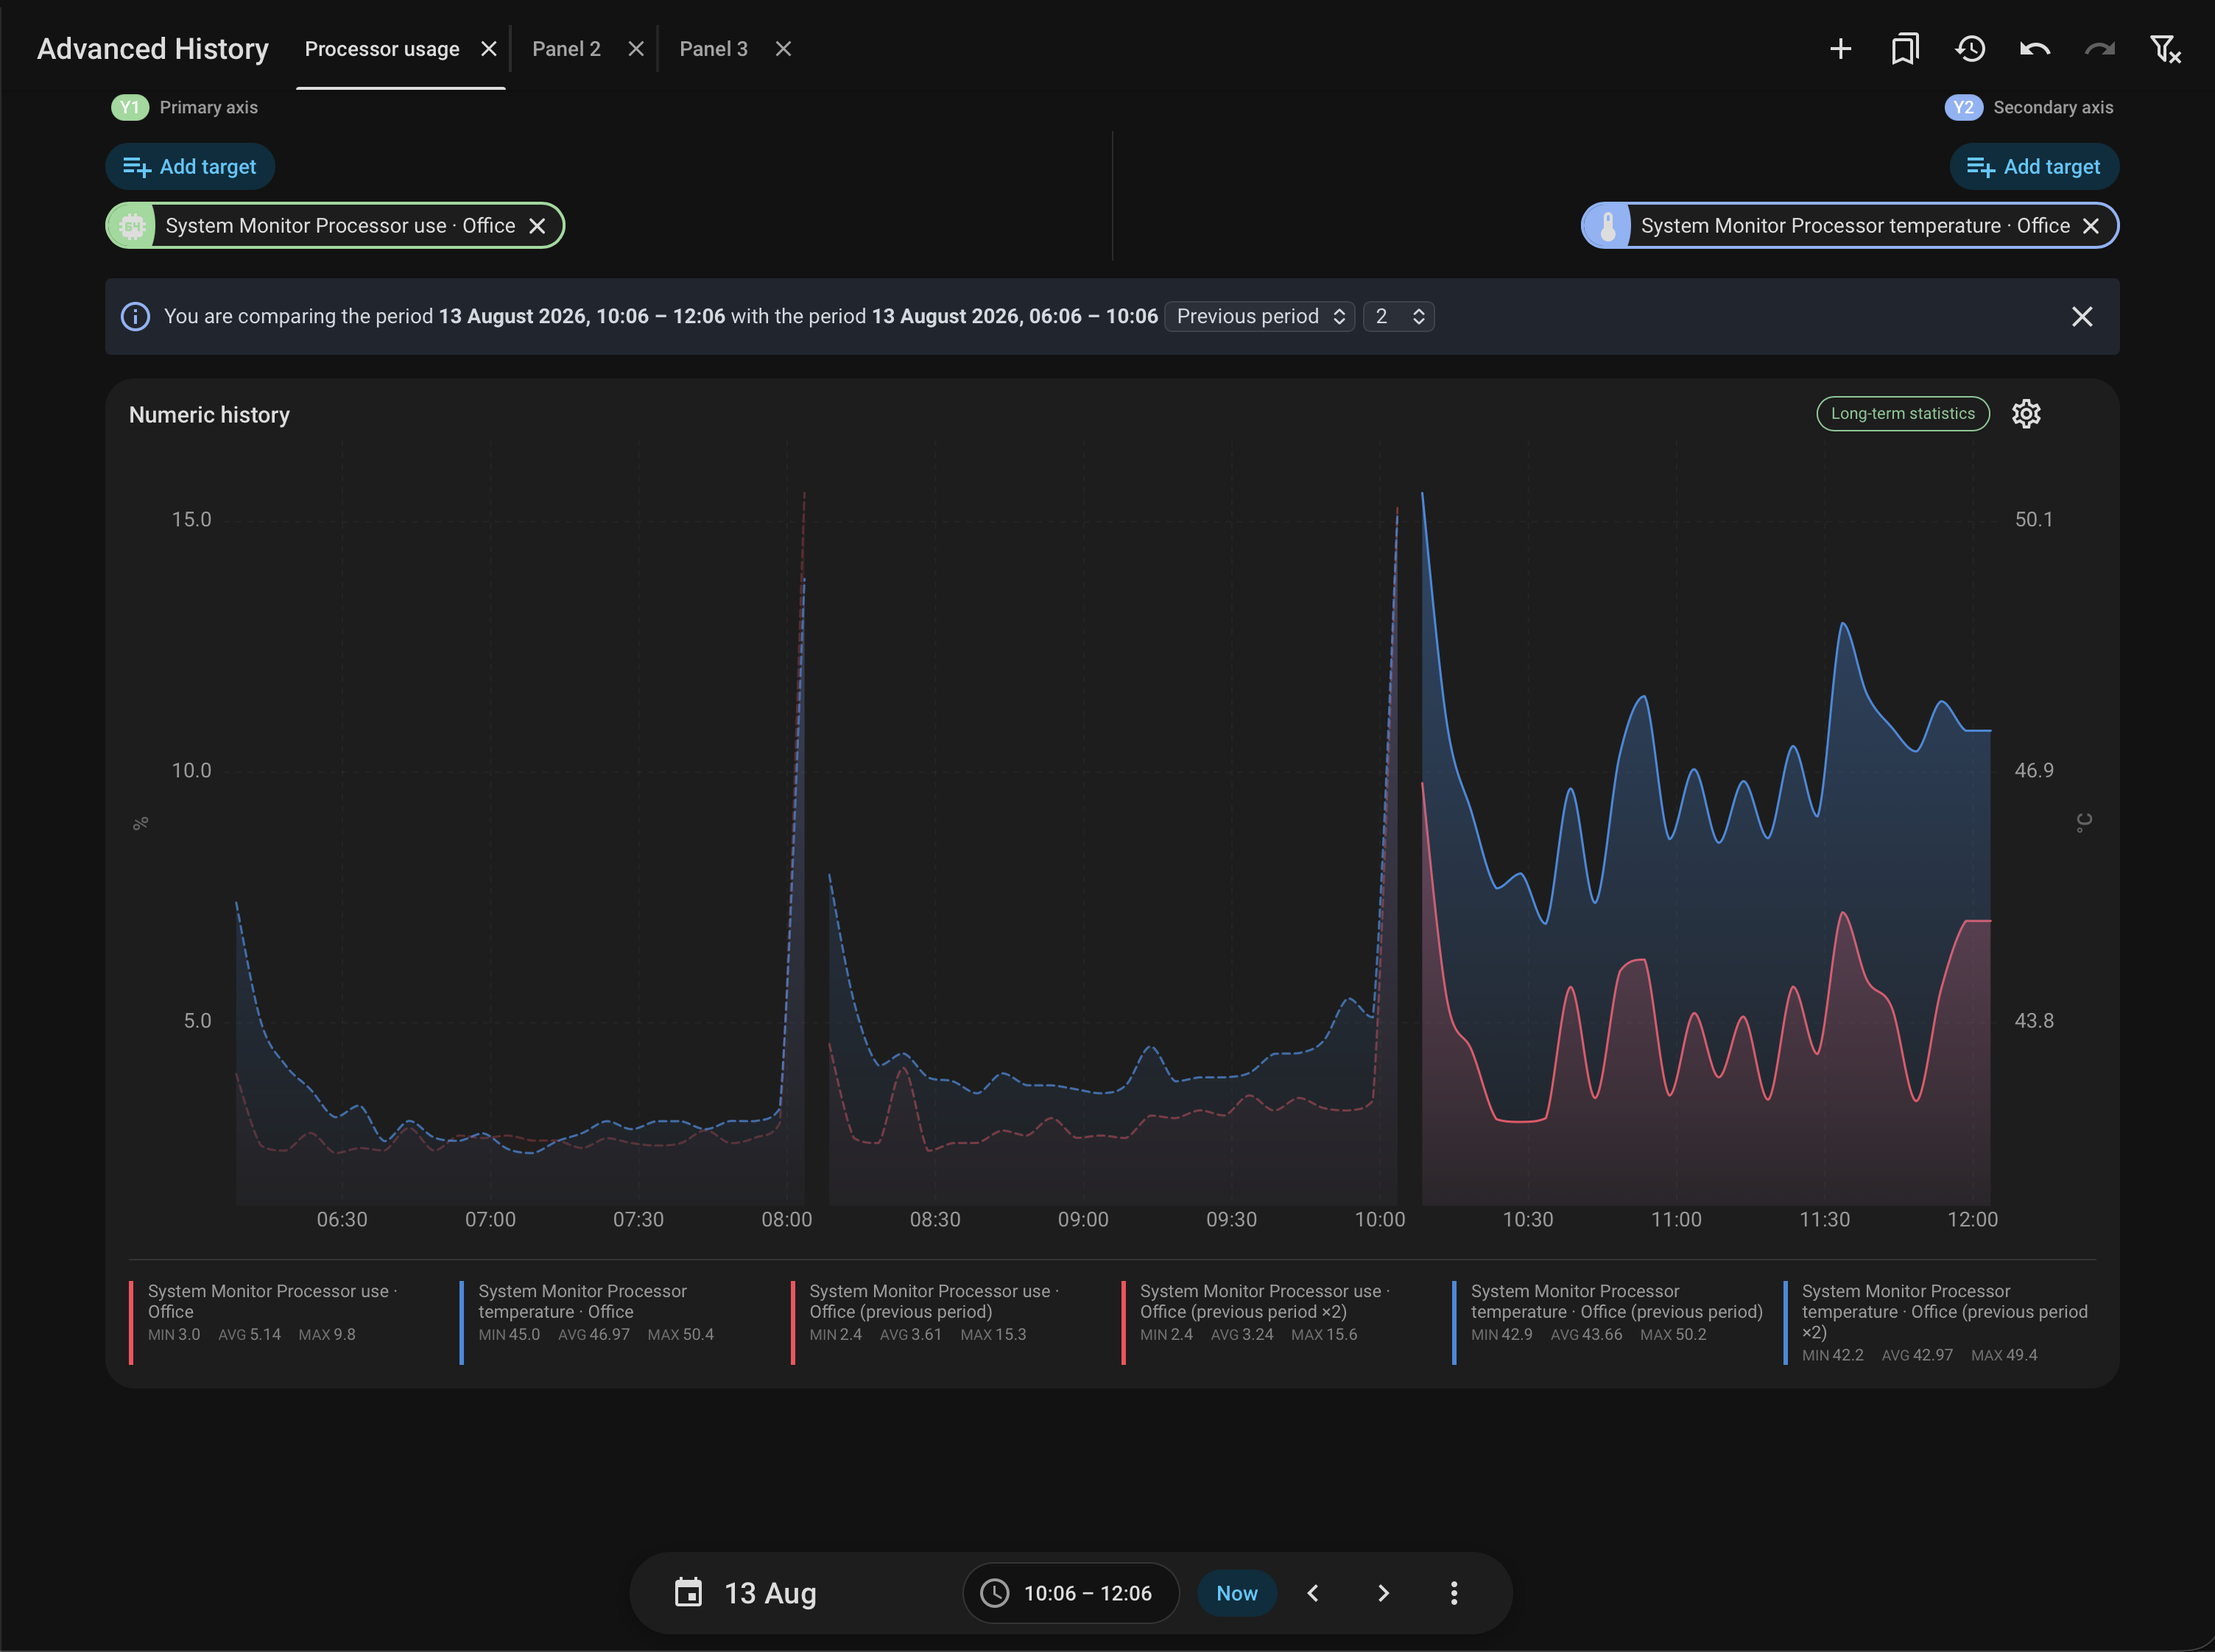
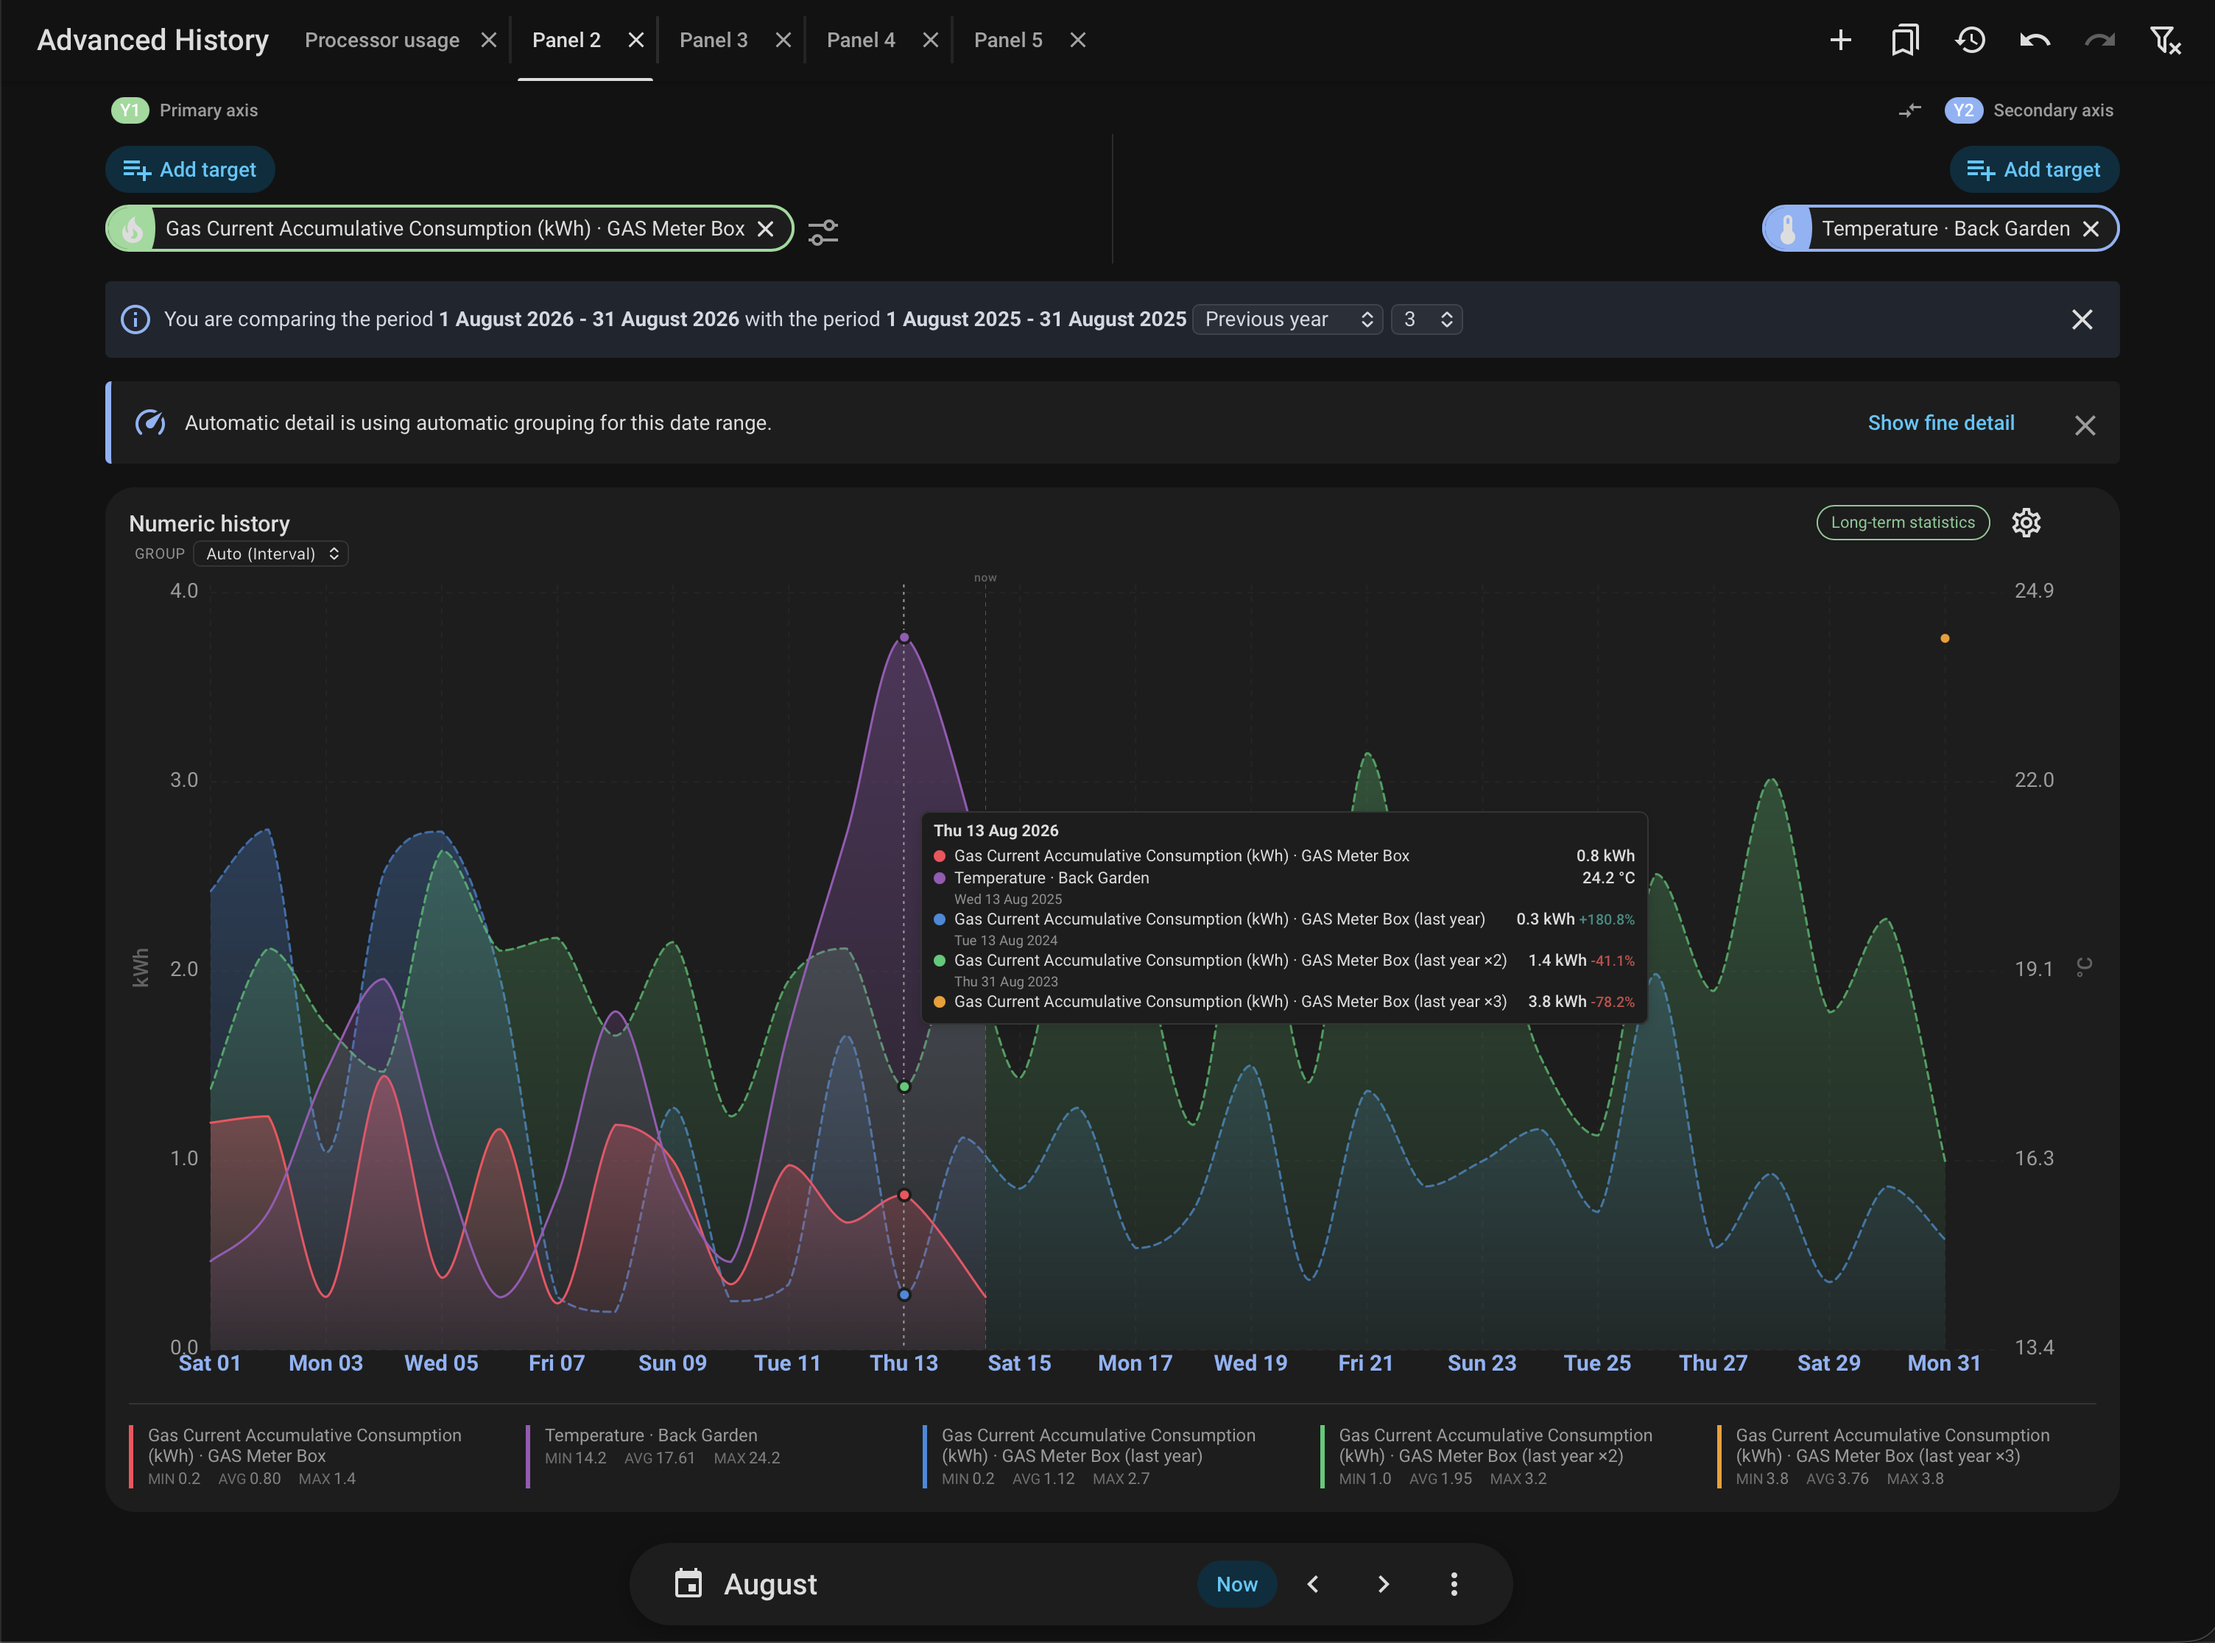
Improve comparison period summaries

diff --git a/custom_components/advanced_history/frontend/energy.js b/custom_components/advanced_history/frontend/energy.js
@@ -10,37 +10,93 @@ export class EnergyMethods {
   }
 
   _energyCompareRange(start, end, choice, count = 1) {
-    if (!(start instanceof Date) || !(end instanceof Date)) return null;
+    const ranges = this._energyCompareRanges(start, end, choice, count);
+    if (!ranges.length) return null;
     if (choice === "previous_period") {
       const duration = end.getTime() - start.getTime();
-      if (duration <= 0) return null;
       const periods = Math.max(1, Math.min(10, Math.trunc(Number(count)) || 1));
       return {
         start: new Date(start.getTime() - duration * periods),
         end: new Date(start),
+        ranges,
       };
     }
-    if (choice === "last_month") {
-      const compareStart = new Date(start);
-      const dayOfMonth = compareStart.getDate();
-      compareStart.setDate(1);
-      compareStart.setMonth(compareStart.getMonth() - 1);
-      const lastTargetDay = new Date(
-        compareStart.getFullYear(),
-        compareStart.getMonth() + 1,
-        0,
-      ).getDate();
-      compareStart.setDate(Math.min(dayOfMonth, lastTargetDay));
-      const offset = start.getTime() - compareStart.getTime();
-      return { start: compareStart, end: new Date(end.getTime() - offset) };
-    }
+    return {
+      start: ranges[0].start,
+      end: ranges[ranges.length - 1].end,
+      ranges,
+    };
+  }
+
+  _energyCompareRanges(start, end, choice, count = 1) {
+    if (!(start instanceof Date) || !(end instanceof Date)) return [];
+    const periods = Math.max(1, Math.min(10, Math.trunc(Number(count)) || 1));
+    const duration = end.getTime() - start.getTime();
+    if (duration <= 0) return [];
+    const periodKind = this._energyPeriodKind(start, end);
     const days = choice === "yesterday" ? 1 : choice === "last_week" ? 7 : 0;
-    if (!days) return null;
-    const compareStart = new Date(start);
-    const compareEnd = new Date(end);
-    compareStart.setDate(compareStart.getDate() - days);
-    compareEnd.setDate(compareEnd.getDate() - days);
-    return { start: compareStart, end: compareEnd };
+    const ranges = [];
+    for (let periodsBack = periods; periodsBack >= 1; periodsBack -= 1) {
+      let compareStart;
+      let compareEnd;
+      if (choice === "previous_period") {
+        if (periodKind === "month") {
+          compareStart = this._shiftEnergyCompareMonth(start, -periodsBack);
+          compareEnd = this._shiftEnergyCompareMonth(end, -periodsBack);
+        } else if (periodKind === "year") {
+          compareStart = this._shiftEnergyCompareYear(start, -periodsBack);
+          compareEnd = this._shiftEnergyCompareYear(end, -periodsBack);
+        } else {
+          compareStart = new Date(start.getTime() - duration * periodsBack);
+          compareEnd = new Date(end.getTime() - duration * periodsBack);
+        }
+      } else if (choice === "last_month") {
+        compareStart = this._shiftEnergyCompareMonth(start, -periodsBack);
+        compareEnd = this._shiftEnergyCompareMonth(end, -periodsBack);
+      } else if (choice === "last_year") {
+        compareStart = this._shiftEnergyCompareYear(start, -periodsBack);
+        compareEnd = this._shiftEnergyCompareYear(end, -periodsBack);
+      } else if (days) {
+        compareStart = new Date(start);
+        compareEnd = new Date(end);
+        compareStart.setDate(compareStart.getDate() - days * periodsBack);
+        compareEnd.setDate(compareEnd.getDate() - days * periodsBack);
+      } else {
+        return [];
+      }
+      ranges.push({ start: compareStart, end: compareEnd });
+    }
+    return ranges;
+  }
+
+  _shiftEnergyCompareMonth(value, offset) {
+    const shifted = new Date(value);
+    const targetDay = shifted.getDate();
+    shifted.setDate(1);
+    shifted.setMonth(shifted.getMonth() + offset);
+    const lastTargetDay = new Date(
+      shifted.getFullYear(),
+      shifted.getMonth() + 1,
+      0,
+    ).getDate();
+    shifted.setDate(Math.min(targetDay, lastTargetDay));
+    return shifted;
+  }
+
+  _shiftEnergyCompareYear(value, offset) {
+    const shifted = new Date(value);
+    const targetMonth = shifted.getMonth();
+    const targetDay = shifted.getDate();
+    shifted.setDate(1);
+    shifted.setFullYear(shifted.getFullYear() + offset);
+    shifted.setMonth(targetMonth);
+    const lastTargetDay = new Date(
+      shifted.getFullYear(),
+      targetMonth + 1,
+      0,
+    ).getDate();
+    shifted.setDate(Math.min(targetDay, lastTargetDay));
+    return shifted;
   }
 
   _energyPeriodKind(start, end) {
@@ -80,8 +136,8 @@ export class EnergyMethods {
     const previousYear = ["last_year", "compare_previous_year"];
     if (periodKind === "day") {
       return this._panelTimeRange
-        ? [previousPeriod, previousDay, previousWeek, previousYear]
-        : [previousPeriod, previousWeek, previousYear];
+        ? [previousPeriod, previousDay, previousWeek, previousMonth, previousYear]
+        : [previousPeriod, previousWeek, previousMonth, previousYear];
     }
     if (periodKind === "week") return [previousPeriod, previousMonth, previousYear];
     if (periodKind === "month") return [previousPeriod, previousYear];
@@ -119,15 +175,35 @@ export class EnergyMethods {
     return collectionMode ? (dataMode || collectionMode) : "";
   }
 
-  _energyCompareRangeLabel(start, end) {
+  _energyCompareRangeLabel(start, end, includeTime = true, periodKind = "other") {
     const language = this._hass?.locale?.language || this._hass?.language;
     const timeZone = this._resolvedTimeZone?.() || this._hass?.config?.time_zone;
+    if (!includeTime && periodKind === "day") {
+      return new Intl.DateTimeFormat(language, {
+        dateStyle: "long",
+        ...(timeZone ? { timeZone } : {}),
+      }).format(start);
+    }
+    if (!includeTime && periodKind === "month") {
+      return new Intl.DateTimeFormat(language, {
+        month: "long",
+        year: "numeric",
+        ...(timeZone ? { timeZone } : {}),
+      }).format(start);
+    }
+    if (!includeTime && periodKind === "year") {
+      return new Intl.DateTimeFormat(language, {
+        year: "numeric",
+        ...(timeZone ? { timeZone } : {}),
+      }).format(start);
+    }
     const dateOptions = { dateStyle: "long", ...(timeZone ? { timeZone } : {}) };
     const timeOptions = { timeStyle: "short", ...(timeZone ? { timeZone } : {}) };
     const dateFormatter = new Intl.DateTimeFormat(language, dateOptions);
     const timeFormatter = new Intl.DateTimeFormat(language, timeOptions);
     const startDate = dateFormatter.format(start);
     const endDate = dateFormatter.format(end);
+    if (!includeTime) return startDate === endDate ? startDate : `${startDate} – ${endDate}`;
     const startTime = timeFormatter.format(start);
     const endTime = timeFormatter.format(end);
     return startDate === endDate
@@ -138,7 +214,11 @@ export class EnergyMethods {
   _renderEnergyCompareRangeBanner(compareCard, wrapper) {
     const range = compareCard?.__advancedHistoryCompareRange;
     const alert = compareCard?.shadowRoot?.querySelector("ha-alert");
-    if (!this._panelTimeRange || !range || !alert || !wrapper) return;
+    const comparisonCount = Math.max(
+      1,
+      Math.min(10, Math.trunc(Number(this._energyCompareCount)) || 1),
+    );
+    if ((!this._panelTimeRange && comparisonCount === 1) || !range || !alert || !wrapper) return;
     const startMarker = "__ADVANCED_HISTORY_START__";
     const endMarker = "__ADVANCED_HISTORY_END__";
     const message = this._localize(
@@ -146,9 +226,40 @@ export class EnergyMethods {
       `You are comparing the period ${startMarker} with the period ${endMarker}`,
       { start: startMarker, end: endMarker },
     );
+    const includeTime = Boolean(this._panelTimeRange);
+    const periodKind = this._energyPeriodKind(range.start, range.end);
+    let compareLabelEnd = range.compareEnd;
+    if (
+      !includeTime
+      && this._energyCompareChoice === "previous_period"
+      && compareLabelEnd?.getTime?.() === range.start?.getTime?.()
+    ) {
+      compareLabelEnd = new Date(compareLabelEnd.getTime() - 1);
+    }
+    const compareRanges = Array.isArray(range.compareRanges) && range.compareRanges.length
+      ? range.compareRanges
+      : [{ start: range.compareStart, end: compareLabelEnd }];
+    const compareRangeLabels = compareRanges.map((comparisonRange) => (
+      this._energyCompareRangeLabel(
+        comparisonRange.start,
+        comparisonRange.end,
+        includeTime,
+        periodKind,
+      )
+    ));
+    const language = this._hass?.locale?.language || this._hass?.language;
+    const compareRangesLabel = compareRangeLabels.length > 1
+      ? new Intl.ListFormat(language, { style: "long", type: "conjunction" })
+        .format(compareRangeLabels)
+      : compareRangeLabels[0];
     const labels = {
-      [startMarker]: this._energyCompareRangeLabel(range.start, range.end),
-      [endMarker]: this._energyCompareRangeLabel(range.compareStart, range.compareEnd),
+      [startMarker]: this._energyCompareRangeLabel(
+        range.start,
+        range.end,
+        includeTime,
+        periodKind,
+      ),
+      [endMarker]: compareRangesLabel,
     };
     const markerPattern = new RegExp(`(${startMarker}|${endMarker})`, "g");
     const content = document.createDocumentFragment();
@@ -203,6 +314,7 @@ export class EnergyMethods {
         end: rangeEnd,
         compareStart: customRange.start,
         compareEnd: customRange.end,
+        compareRanges: customRange.ranges,
       };
       compareCard.requestUpdate?.();
     };

diff --git a/README.md b/README.md
@@ -34,6 +34,8 @@ Advanced History brings those two ideas together: select targets as you would in
 ## Highlights
 
 - Select multiple areas, devices, or entities with Home Assistant's native target picker.
+- Work across independent desktop panels that can be renamed, rearranged, and restored automatically.
+- Plot targets on separate Y1 and Y2 scales, with the option to exclude Y2 from period comparisons.
 - Display numeric history and state timelines.
 - Navigate dates and compare periods with native Energy controls.
 - Edit the current chart through the Statistics Graph Chart Card visual editor.
